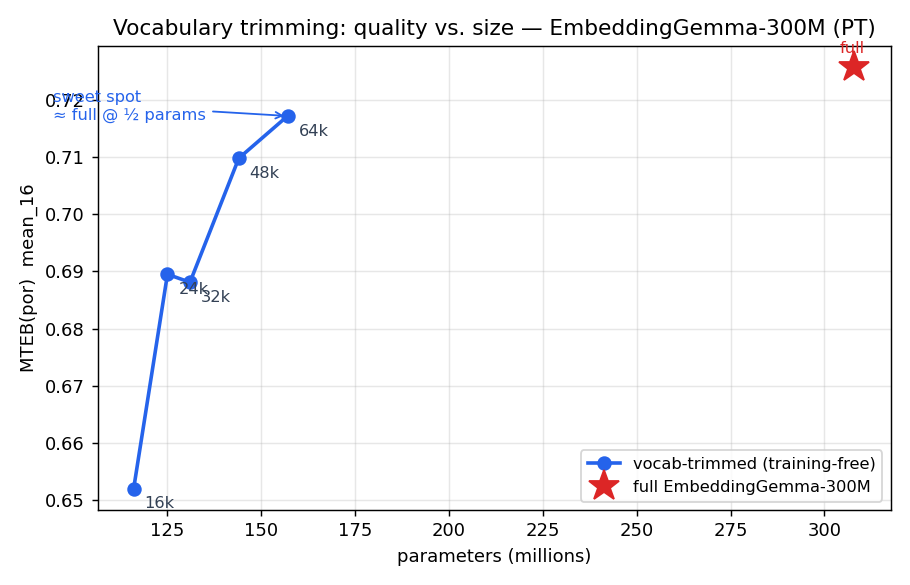
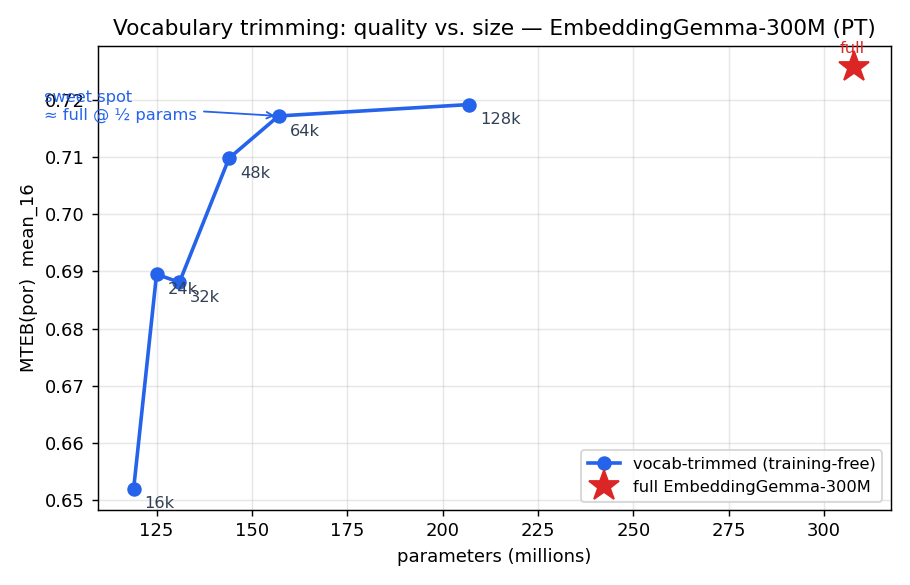
Add 128k point (207M, MTEB(por) 0.7192) to results, charts, tables

diff --git a/results/plot_composition.py b/results/plot_composition.py
@@ -13,6 +13,7 @@ DENSE = 4.72           # 2x Dense projection heads (M) — identical across all 
 # (label, vocab_size, mteb_por_mean16) — ordered largest -> smallest to show progressive trimming
 MODELS = [
     ("Original", 262144, 0.7257),
+    ("128k",     131072, 0.7192),
     ("64k",       65536, 0.7172),
     ("48k",       49152, 0.7098),
     ("32k",       32768, 0.6881),

diff --git a/README.md b/README.md
@@ -79,6 +79,7 @@ recovers monotonically as you keep more tokens; **the encoder and Dense heads ar
 | 32k   | ~131M  | 0.6881 | −0.038 |
 | 48k   | ~144M  | 0.7098 | −0.016 |
 | **64k** | **~157M** | **0.7172** | **−0.0085** |
+| 128k  | ~207M  | 0.7192 | −0.0065 |
 | *full EG-300M* | *~308M* | *0.7257* | *—* |
 
 **64k is the sweet spot: ≈ full-model quality at half the parameters.** 24k is the smallest practical

diff --git a/results/mteb_por_pareto.md b/results/mteb_por_pareto.md
@@ -14,6 +14,7 @@ clustering, retrieval, reranking). Higher is better.
 | 32k   | ~131M  | 0.6881 | −0.0376 | ≈ 24k (within noise) |
 | 48k   | ~144M  | 0.7098 | −0.0159 | |
 | **64k** | **~157M** | **0.7172** | **−0.0085** | **sweet spot — ≈ full quality, ½ params** |
+| 128k  | ~207M  | 0.7192 | −0.0065 | near-full; diminishing returns (+0.002 over 64k for +50M) |
 | full  | ~308M  | 0.7257 | — | untrimmed EmbeddingGemma-300M |
 
 **Reading the curve:** quality recovers monotonically above 32k. At 64k the trim keeps **98.8%** of